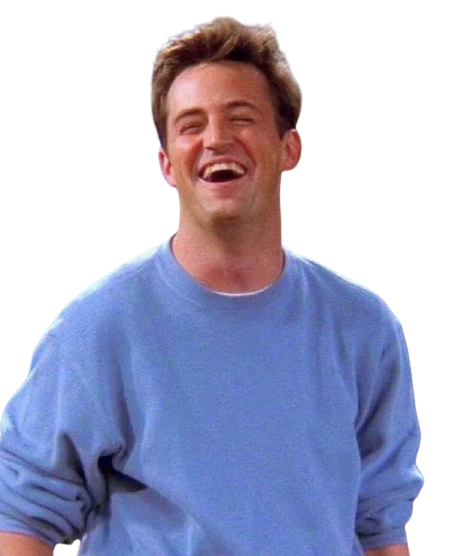
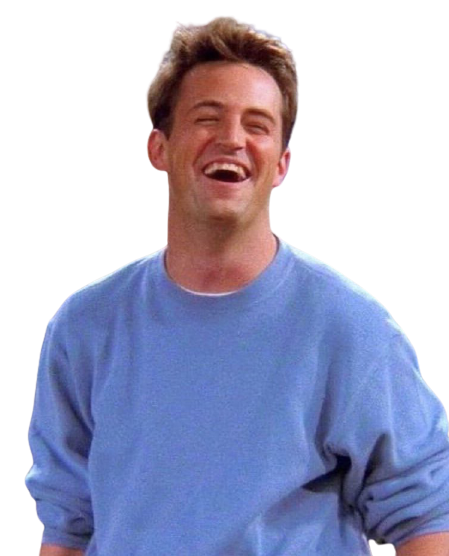
Rotated images and updated quotes

diff --git a/app/page.tsx b/app/page.tsx
@@ -28,9 +28,9 @@ export default function Home() {
       {/* Friends Characters - Scattered across sections */}
       <FriendsCharacter sectionId="skills" character="Ross" position="right" offset={-50} />
       <FriendsCharacter sectionId="education" character="Rachel" position="left" offset={0} />
-      <FriendsCharacter sectionId="project" character="Chandler" position="right" offset={30} />
-      <FriendsCharacter sectionId="experience" character="Monica" position="left" offset={-30} />
-      <FriendsCharacter sectionId="contact" character="Joey" position="right" offset={20} />
+      <FriendsCharacter sectionId="project" character="Chandler" position="left" offset={30} />
+      <FriendsCharacter sectionId="experience" character="Monica" position="right" offset={-30} />
+      <FriendsCharacter sectionId="contact" character="Joey" position="left" offset={20} />
       <FriendsCharacter sectionId="referral" character="Phoebe" position="right" offset={20} />
       
       {/* Footer */}

diff --git a/app/components/ui/friends-character.tsx b/app/components/ui/friends-character.tsx
@@ -17,7 +17,7 @@ const FRIENDS_CHARACTERS = [
   { name: 'Monica', image: '/friends-characters/monica_geller.png', quotes: ['I KNOW!', 'Welcome to the real world!', 'Not just health-department clean, "Monica" clean.'] },
   { name: 'Chandler', image: '/friends-characters/chandler_bing.png', quotes: ['Hi, I\'m Chandler. I make jokes when I\'m uncomfortable.', 'Could this BE any more obvious?', 'I\'m not great at the advice'] },
   { name: 'Joey', image: '/friends-characters/joey_tribbiani.png', quotes: ['How you doin\'?', 'Joey doesn\'t share food!', 'It\'s a moo point'] },
-  { name: 'Phoebe', image: '/friends-characters/phoebe_buffay.png', quotes: ['Smelly cat!', 'My Eyes! MY EYES!', 'This is brand new information!'] }
+  { name: 'Phoebe', image: '/friends-characters/phoebe_buffay.png', quotes: ['My Eyes! MY EYES!', 'This is brand new information!','Smelly cat!'] }
 ]
 
 // Fallback character icons using emojis for when images aren't available
